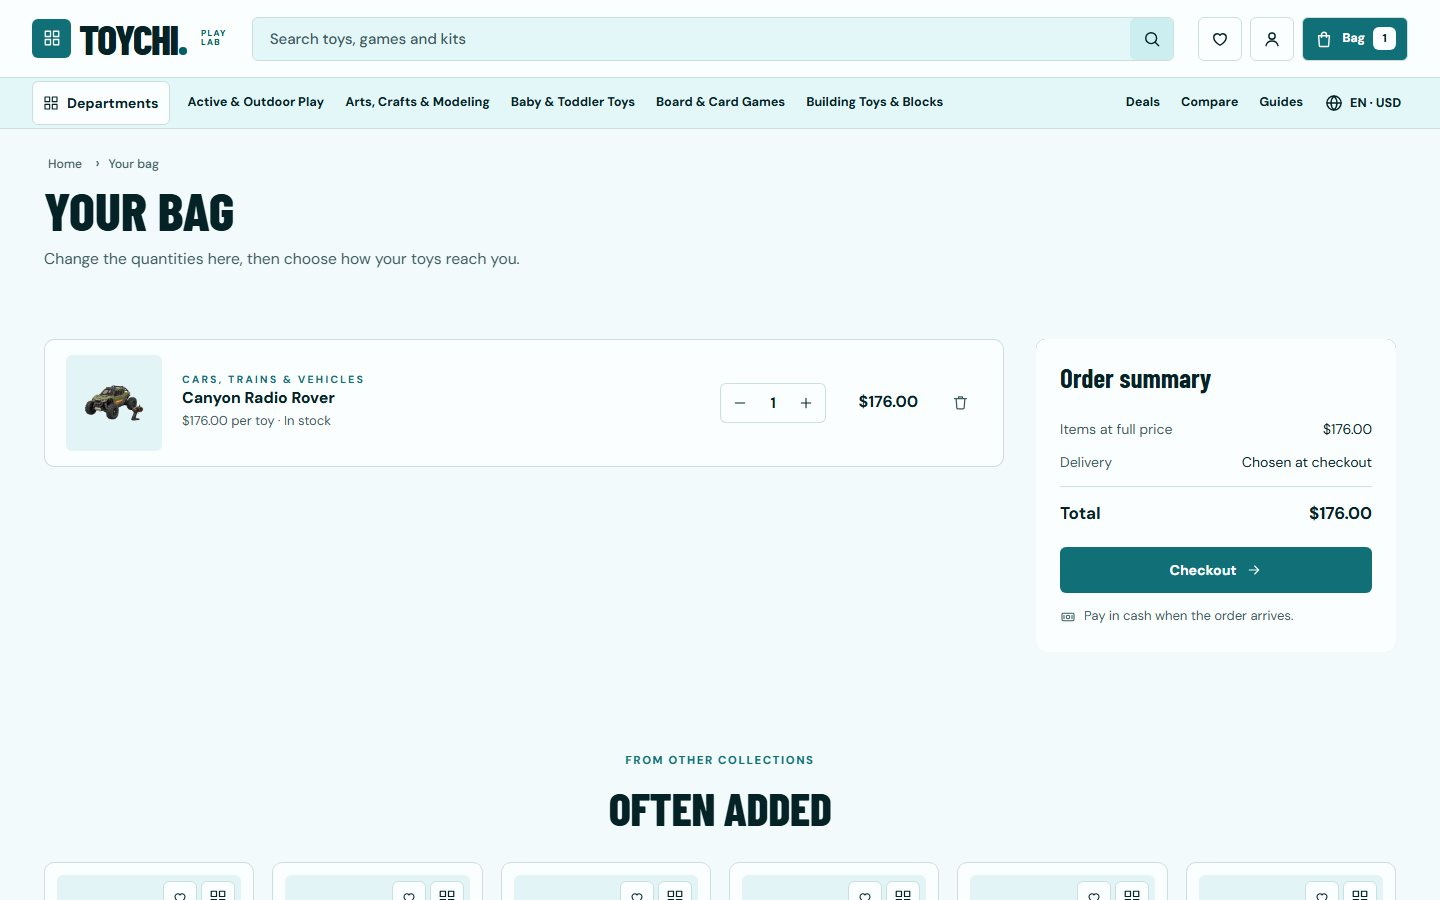
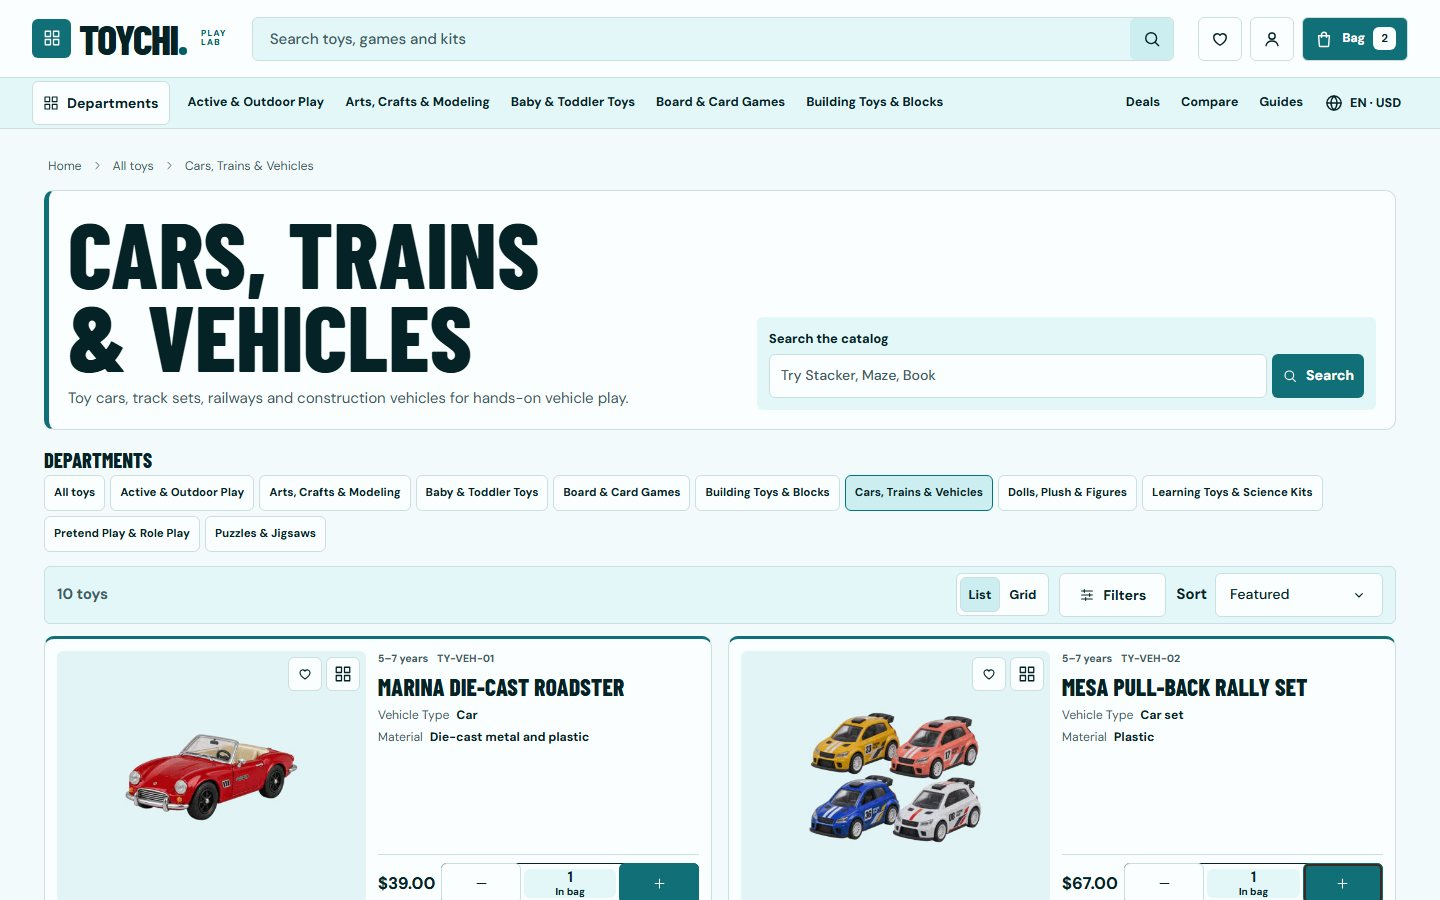
LAYOUT.md: the checks and the walk on 1.0.7; desktop documentation screenshots from 1.0.7

diff --git a/LAYOUT.md b/LAYOUT.md
@@ -62,9 +62,11 @@ A guide's address opened fresh (`/blog/<slug>-<blog id>`) draws Play Lab's artic
 ## Checks
 
 <!-- CHECKS:START -->
-**1.0.5 on the live domain (playlab.selldone.shop, 24 Nov 2026), through new-shop-kits/pw-lock.sh:** fast-checks, 221 jobs at 1440, 1024 and 390 px (and 1920–3840 where the check asks), dark and light, Deep teal, Forest, Cobalt, Berry and the custom colours, English and forced Arabic — ring 0, card-edge 0, corner 0, circle 0, contrast 0 (424 states), cart 0, currency 0 (USD, AED, DKK, SAR), box 0, i18n 0, text-col 0, shape 0, underline 0, variant 0: **TOTAL 0** (1.0.0 started at 22 610).
+**1.0.7 on the live domain (playlab.selldone.shop, 24 Nov 2026), through new-shop-kits/pw-lock.sh:** fast-checks, 221 jobs at 1440, 1024 and 390 px (and 1920–3840 where the check asks), dark and light, Deep teal, Forest, Cobalt, Berry and the custom colours, English and forced Arabic — ring 0, card-edge 0, corner 0, circle 0, contrast 0 (424 states), cart 0, currency 0 (USD, AED, DKK, SAR), box 0, i18n 0, text-col 0, shape 0, underline 0, variant 0: **TOTAL 0** (1.0.0 started at 22 610).
 
-**Guest checkout walk** (`scripts/checkout-walk.mjs`, 1440 and 390, guest checkout and cash on delivery on): add from a card, the bag drawer, the checkout, the delivery sheet (before an address it says why no way shows), the address sheet with the map (pin placed, address filled and saved), the courier way, Place order → Selldone's payment window (total matches the button) → its ✕, the bag emptied. **WALK OK**; no order placed.
+**Guest checkout walk** (`scripts/checkout-walk.mjs`, 1440 and 390, guest checkout and cash on delivery on): add from a card, the bag drawer, the three-step checkout, the delivery sheet (before an address it says why no way shows), the address sheet with the map (pin placed, address filled and saved), the courier way, Place order → Selldone's payment window (total matches the button) → its ✕, the bag emptied. **WALK OK**; no order placed. (One run on 1.0.6 saw the drawer empty right after an add, a live-service hiccup; the same walk passed before and after.)
+
+**A guide opened directly** with a normal Chrome's client hints: route `ShopBlogPageSlug`, Play Lab's article and footer drawn (see "A guide opened directly").
 
 **Every release:** the production-bundle check (release step 5b) OK; 275 files; server verify extracting false, error null, shop.js and shop.css match. Not machine-checked: the order page and its messages (no order exists; drawn locally from a made-up order answered inside the test browser only).
 <!-- CHECKS:END -->
